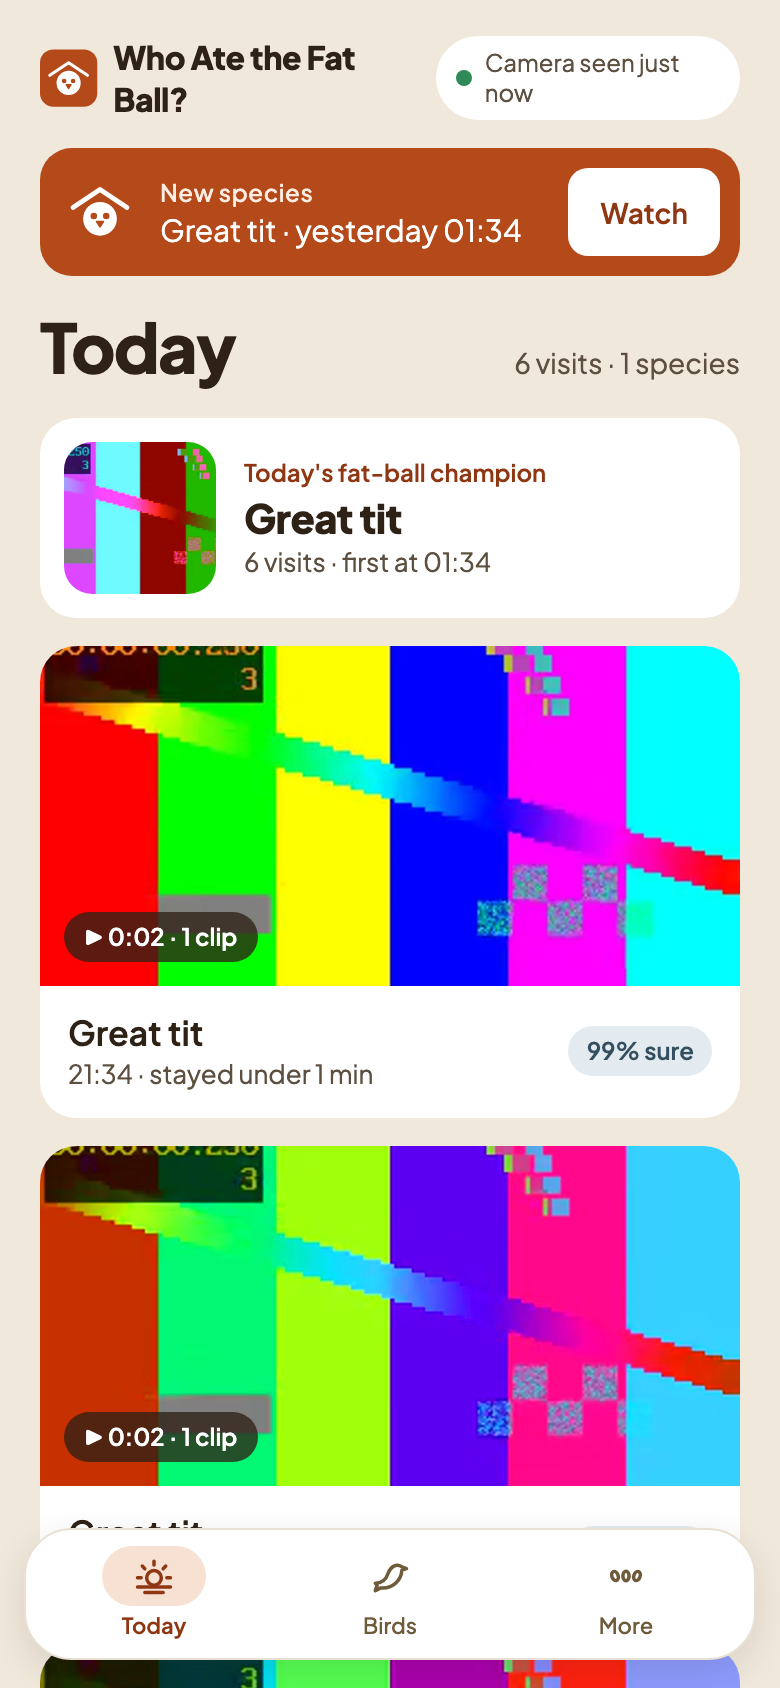
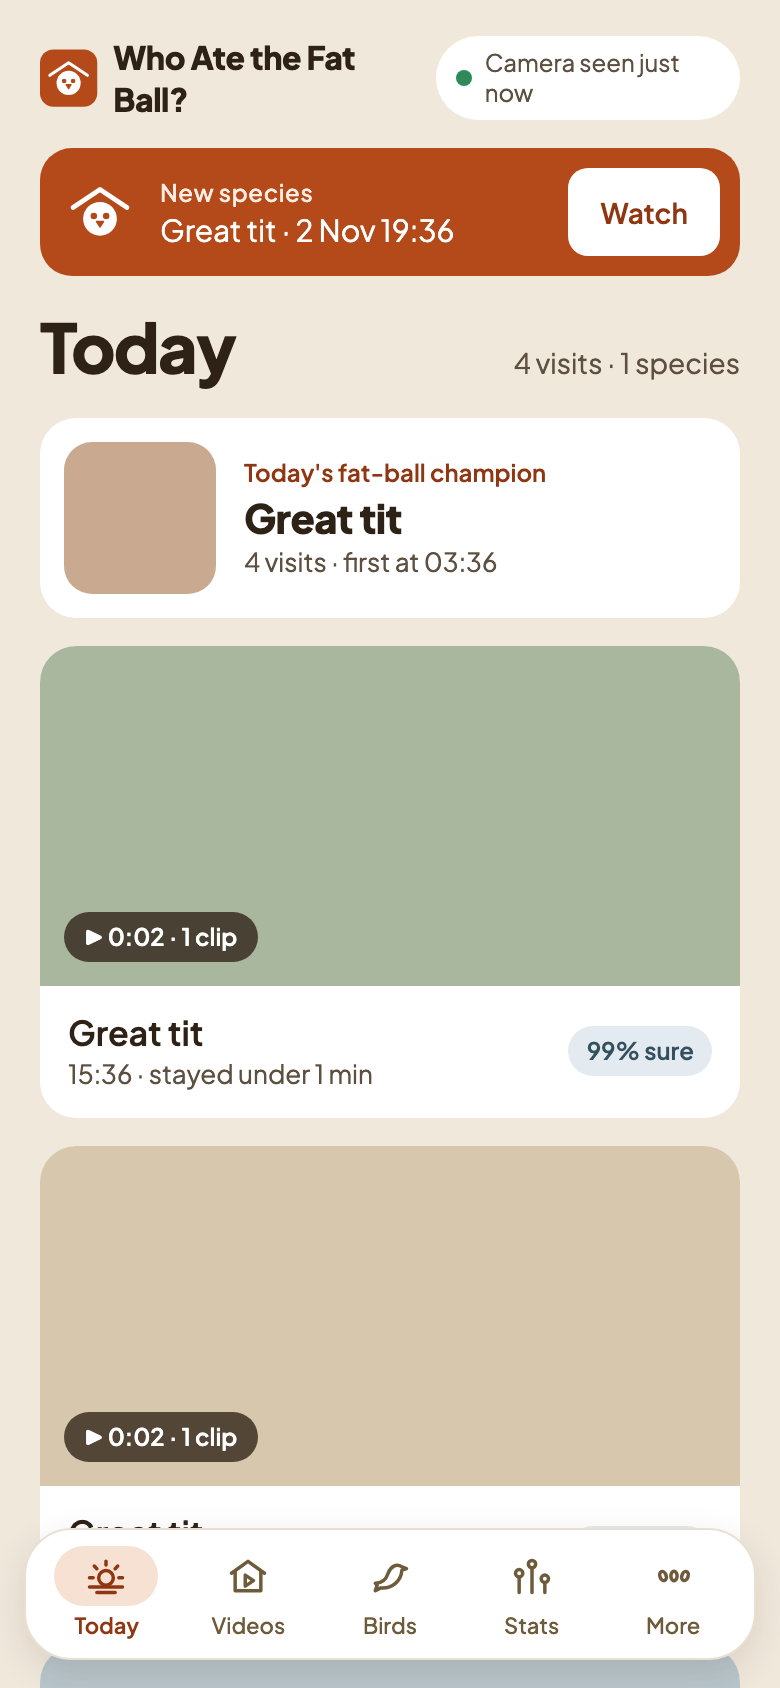
docs: calm single-colour demo clips for the README screenshots
The demo's busy ffmpeg test pattern made the screenshots hard to look at. Demo clips are now one
soft colour each, from a small palette that sits with the gallery's colours, and all eight
screenshots are retaken from demo mode. The test libraries keep their patterns, so no stored test
screenshots change.

diff --git a/src/fatball/demo.py b/src/fatball/demo.py
@@ -25,6 +25,9 @@ FFMPEG = shutil.which("ffmpeg") or "/opt/homebrew/bin/ffmpeg"
 _PARAM_SETS = {32, 33, 34, 35, 39}  # VPS, SPS, PPS, AUD, prefix SEI: start a new access unit
 _KEY_SLICES = range(16, 22)
 DEMO_CLIP_SECONDS = 2
+# Calm single-colour clips for the demo (and so for the README screenshots): soft tones that sit
+# with the gallery's cream and robin palette instead of a busy test pattern.
+DEMO_COLOURS = ("A9B79F", "D8C7AE", "B9C6CC", "C9A991", "9FAE93", "CFC3B4")
 
 
 def _split_access_units(stream: bytes) -> list[tuple[bool, bytes]]:
@@ -59,7 +62,8 @@ def _split_access_units(stream: bytes) -> list[tuple[bool, bytes]]:
 def make_xm_clip(seconds: float = 2, fps: int = 12, *, width: int = 320, height: int = 180,
                  source: str = "testsrc", hue: int = 0) -> bytes:
     """A synthetic HEVC clip (ffmpeg `source` pattern, hue-shifted by `hue` degrees) in Xiongmai framing."""
-    video = f"{source}=size={width}x{height}:rate={fps}"
+    joiner = ":" if "=" in source else "="  # a source may bring its own options, e.g. "color=c=0xA9B79F"
+    video = f"{source}{joiner}size={width}x{height}:rate={fps}"
     cmd = [FFMPEG, "-loglevel", "error", "-f", "lavfi", "-i", video, "-t", str(seconds)]
     if hue:
         cmd += ["-vf", f"hue=h={hue}"]
@@ -83,7 +87,7 @@ def build_demo_camera(n_clips: int = 12, days: int = 2, *, now: datetime | None 
     for i in range(n_clips):
         end = now - timedelta(minutes=1) - i * step
         begin = end - timedelta(seconds=DEMO_CLIP_SECONDS)
-        payload = make_xm_clip(DEMO_CLIP_SECONDS, source="testsrc2", hue=(i * 360 // n_clips) % 360)
+        payload = make_xm_clip(DEMO_CLIP_SECONDS, source=f"color=c=0x{DEMO_COLOURS[i % len(DEMO_COLOURS)]}")
         files.append(FakeFile(begin, end, "h264", payload))
     return FakeCamera(password="", files=files, clock=now)
 

diff --git a/README.md b/README.md
@@ -13,7 +13,7 @@ A free, local app for bird-feeder cameras: it collects the clips for you and tel
 | ![Videos on a Mac, one clip at a time](docs/screenshots/mac-videos.png) | ![Videos on a phone, a full-screen feed](docs/screenshots/phone-videos.png) |
 | ![Stats on a Mac, with a heatmap of busy times](docs/screenshots/mac-stats.png) | ![Stats on a phone](docs/screenshots/phone-stats.png) |
 
-<sub>Screenshots from demo mode, with generated test-pattern clips.</sub>
+<sub>Screenshots from demo mode, with plain-colour placeholder clips instead of real footage.</sub>
 
 ## The problem
 

diff --git a/docs/plan-3-results.md b/docs/plan-3-results.md
@@ -30,7 +30,7 @@ Videos, By species, select and bulk move, zip downloads, Mac drag-and-drop, Othe
 
 ## Screenshots
 
-From demo mode (`uv run fatball demo`), with generated test-pattern clips, never real footage.
+From demo mode (`uv run fatball demo`), with plain-colour placeholder clips, never real footage.
 
 | Mac: Today | Mac: Birds |
 |---|---|

diff --git a/docs/plan-4-results.md b/docs/plan-4-results.md
@@ -35,7 +35,7 @@ Not confirmed by the owner yet:
 
 ## Screenshots
 
-From demo mode (`uv run fatball demo`), with generated test-pattern clips, never real footage.
+From demo mode (`uv run fatball demo`), with plain-colour placeholder clips, never real footage.
 
 | Mac: Videos | Mac: Stats |
 |---|---|
